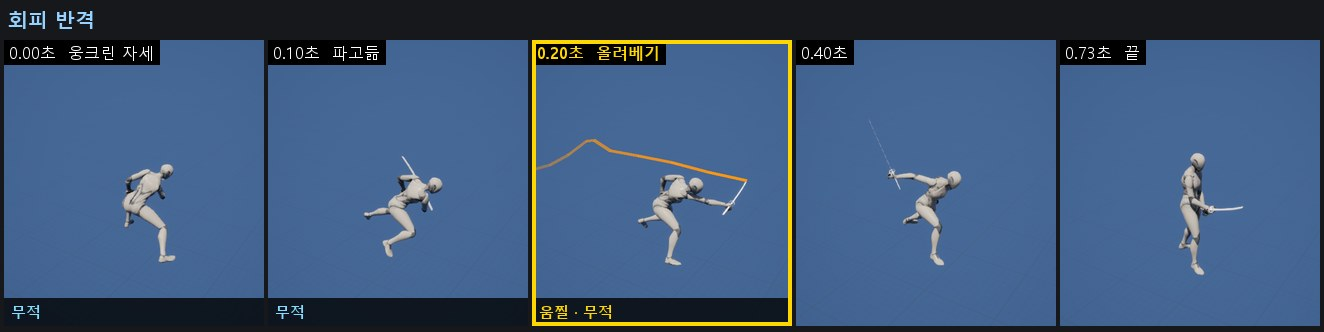
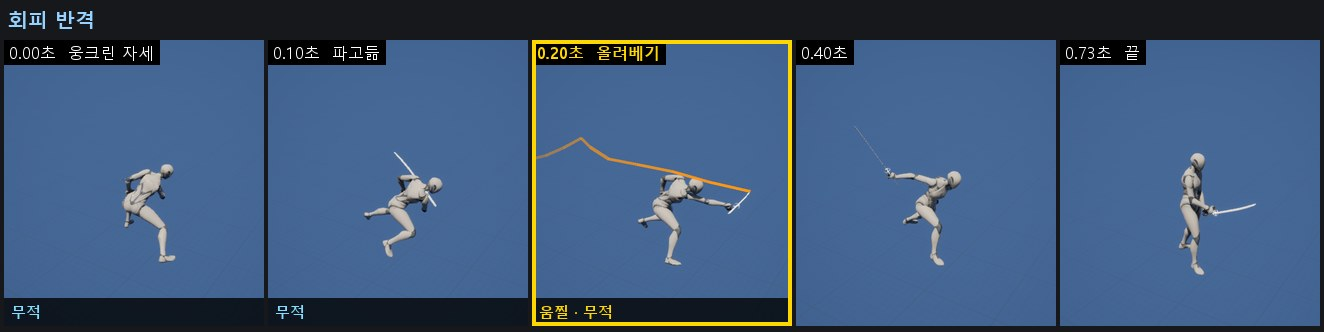
폴리싱: 카타나 손잡이가 양손 주먹 안을 지나게 KatanaSocket 수정 (Samurai 애니메이션 조사 '무기'·'측정 방법', 플레이어 모션 그림)
- 기획서 (Samurai 애니메이션 조사 '무기'·'측정 방법')
  - 소켓 값과 계산 기준을 새 값으로. 측정 방법의 칼날 방향이 게임 카타나와 다른 정도를 적음.
  - 플레이어 모션 그림 9장을 새 소켓으로 다시 그림.
- 구현
  - 손가락마다 세 마디를 지나는 원(반지름 약 3cm)의 중심으로 주먹 중심을 구해 보니, 예전 소켓은 손잡이 축이
    손목(weapon_r) 쪽을 지나 주먹 중심에서 약 8cm 벗어나 있었습니다.
  - SK_Mannequin KatanaSocket (hand_r 기준): 위치 (-18.0, -35.1, 37.2) → (-26.83, -26.36, 40.79),
    회전 (Pitch 35.4, Yaw 17.2, Roll 57.2) → (Pitch 31.84, Yaw 19.46, Roll 67.18).
    손잡이 축이 오른손 주먹(손잡이 +53cm)과 중단 자세 왼손 주먹(+70cm)을 지나고, 날 방향은 가장 작게(약 9.6°) 돌림.
  - 모션 그림 도구의 카타나도 hand_r + 같은 소켓 값으로 그림(weapon_r 수집 제거).

PIE (보스 대기): 평타 연타 1~5타 → 1~4타 모두 적중, 적중 시점은 예전과 같음(±0.01초).

diff --git a/Scripts/MotionImages/common.py b/Scripts/MotionImages/common.py
@@ -120,24 +120,20 @@ def quat_to_rotator(q):
 
 # ------------------------------------------------------------------ characters and weapons
 class Katana:
-    """The player's katana on hand_r, placed from the weapon_r bone (Samurai 애니메이션 조사 '무기')."""
-    bone = "weapon_r"
+    """플레이어 카타나. 게임과 같이 hand_r의 소켓 KatanaSocket에 붙입니다(Samurai 애니메이션 조사 '무기')."""
+    bone = "hand_r"
     mesh = "/Game/Fab/ARPG_Pack/ARPG_Samurai/Demo/Weapon/Mesh/katana.katana"
     component = "/Script/Engine.StaticMeshComponent"
     mesh_property = "staticMesh"
-    BLADE = norm((-0.01, -0.541, 0.841))   # blade direction in weapon_r space, away from the left hand
-    EDGE = (-0.8645472843746747, -0.4179083592043054, -0.2791155151440153)   # edge side in weapon_r space (down in Idle1)
-    GRIP_Y = 55.0                           # mesh Y held by the right hand, just past the tsuba
-    TIP = (2.7, -43.2, 0.0)                 # mesh point of the tip
+    SOCKET_LOC = (-26.83, -26.36, 40.79)   # SK_Mannequin KatanaSocket 위치(hand_r 기준)
+    SOCKET_Q = (-0.48580840364876876, -0.315088429192808, -0.014223640429174067, 0.8151730888504507)   # 회전(Pitch 31.84, Yaw 19.46, Roll 67.18)
+    TIP = (2.7, -43.2, 0.0)                 # 메시의 칼끝
 
     @classmethod
-    def transform(cls, wr):
-        """Mesh pivot (component space) and rotation for a weapon_r transform."""
-        b = norm(qrot(tuple(wr[3:7]), cls.BLADE))
-        e = qrot(tuple(wr[3:7]), cls.EDGE)
-        e = norm(sub(e, scale(b, dot(e, b))))
-        y_axis, x_axis = scale(b, -1), scale(e, -1)   # mesh +Y points to the pommel, mesh -X is the edge
-        return sub(tuple(wr[0:3]), scale(y_axis, cls.GRIP_Y)), mat_to_quat(x_axis, y_axis, cross(x_axis, y_axis))
+    def transform(cls, hr):
+        """hand_r 변환에서 메시 피벗(컴포넌트 공간)과 회전을 구합니다."""
+        q = tuple(hr[3:7])
+        return add(tuple(hr[0:3]), qrot(q, cls.SOCKET_LOC)), qmul(q, cls.SOCKET_Q)
 
     @classmethod
     def tip(cls, wr):

diff --git a/Scripts/MotionImages/ue_probe.py b/Scripts/MotionImages/ue_probe.py
@@ -9,7 +9,7 @@ import os
 
 import unreal
 
-BONES = ["root", "pelvis", "hand_r", "weapon_r"]
+BONES = ["root", "pelvis", "hand_r"]
 
 
 def main():

diff --git a/Docs/Art/Samurai 애니메이션 조사.md b/Docs/Art/Samurai 애니메이션 조사.md
@@ -18,18 +18,19 @@
 | `scabbard` | `Demo/Weapon/Mesh` | 메시 Y축 약 94cm |
 
 - 카타나는 오른손 `hand_r`에 만든 소켓에 붙입니다. 팩에는 소켓 정보가 없고, 팩이 무기 기준으로 쓰는 `weapon_r` 본은 스켈레톤 `SK_Mannequin`에만 있으며 Quinn·Manny 메시에는 없습니다. `weapon_r`은 모든 프레임에서 `hand_r`에 고정되어 있어(약 1.8cm 떨어짐), 같은 위치를 `hand_r` 소켓으로 만들 수 있습니다.
-- `hand_r` 기준 소켓 값은 위치 (−18.0, −35.1, 37.2), 회전 (Pitch 35.4, Yaw 17.2, Roll 57.2)입니다. 카타나 메시를 이 소켓에 추가 오프셋 없이 붙입니다. 플레이어 사양의 모션 그림도 이 위치로 그렸습니다.
+- `hand_r` 기준 소켓 값은 위치 (−26.83, −26.36, 40.79), 회전 (Pitch 31.84, Yaw 19.46, Roll 67.18)입니다. 카타나 메시를 이 소켓에 추가 오프셋 없이 붙입니다. 모션 그림 도구도 같은 값으로 그립니다.
 - 소켓 값은 아래 기준으로 계산했습니다.
-  - 대부분의 자세에서 왼손(`weapon_l`)이 17cm 떨어져 함께 잡는 양손 파지입니다. 양손 위치로 추정한 칼날 방향(왼손에서 멀어지는 쪽)은 `weapon_r` 로컬 (−0.01, −0.54, 0.84)입니다.
-  - 메시의 칼끝은 −Y 쪽이므로, 메시의 −Y를 이 칼날 방향에 맞춥니다. 메시 원점은 칼날 가운데에 있으므로, 손잡이의 Y 약 +55cm 지점(코등이 바로 아래)이 `weapon_r`에 오게 합니다. 그러면 왼손은 손잡이의 약 +72cm 지점에 옵니다.
-  - 칼날(날 쪽)은 메시 −X 쪽입니다. 중단 자세(`Idle1`)에서 날이 아래를 향하도록 맞췄습니다.
-- 미세한 각도는 에디터에서 보고 다듬습니다.
+  - 대부분의 자세에서 양손으로 잡습니다. 손가락(검지~새끼)마다 세 마디를 지나는 원을 구하면 반지름 약 3cm로 손잡이를 감싼 모양이 나오고, 그 원 중심들의 평균을 주먹 중심으로 봅니다. 오른손은 모든 프레임에서 `hand_r`에 대해 같은 자세입니다.
+  - 손잡이 축이 오른손 주먹 중심과 중단 자세(`Idle1`)의 왼손 주먹 중심을 지나게 했습니다. 오른손은 손잡이 +53cm(코등이 바로 아래), 왼손은 +70cm에 옵니다.
+  - 칼날(날 쪽)은 메시 −X 쪽입니다. 중단 자세에서 날이 아래를 향하는 방향을 유지했습니다.
+  - 처음 값(위치 (−18.0, −35.1, 37.2), 회전 (Pitch 35.4, Yaw 17.2, Roll 57.2))은 손잡이를 손목(`weapon_r`) 쪽에 맞춰, 손잡이 축이 주먹 중심에서 약 8cm 벗어났습니다.
+- 공격 중에는 모션에 따라 왼손이 손잡이에서 떨어집니다. 팩의 `weapon_l`도 같이 떨어지므로 모션 자체의 특성입니다.
 
 ## 측정 방법
 
 - 이동 거리: 시작과 끝의 루트 본 위치 차이입니다. 전진은 캐릭터 정면 방향입니다.
 - 베는 시점: 칼날 위 한 점(`weapon_r`에서 칼날 방향으로 82cm)의 속도가 그 모션 최고 속도의 45% 이상인 구간입니다. 추정값이므로 실제 판정 구간은 몽타주에서 보고 정합니다.
-- 닿는 거리: 베는 시점 동안 칼날(`weapon_r`에서 칼날 방향으로 8 ~ 98cm)이 보스 캡슐(엔진 기본 반지름 34cm)에 닿는, 가장 먼 캡슐 중심 사이 수평 거리입니다. '제자리'는 캐릭터가 움직이지 않을 때의 값이고, '이동 포함'은 모션을 시작한 자리에서 잰 값이라 베는 시점까지의 전진이 들어 있습니다. 칼 위치는 '무기'의 추정값입니다.
+- 닿는 거리: 베는 시점 동안 칼날(`weapon_r`에서 칼날 방향으로 8 ~ 98cm)이 보스 캡슐(엔진 기본 반지름 34cm)에 닿는, 가장 먼 캡슐 중심 사이 수평 거리입니다. '제자리'는 캐릭터가 움직이지 않을 때의 값이고, '이동 포함'은 모션을 시작한 자리에서 잰 값이라 베는 시점까지의 전진이 들어 있습니다. 칼날 방향은 양손(`weapon_r`·`weapon_l`) 위치로 추정한 `weapon_r` 로컬 (−0.01, −0.54, 0.84)이라, 게임의 카타나('무기')와 칼끝에서 약 19cm, 칼날 가운데에서 약 13cm 다릅니다.
 - 메시의 피직스 바디(`PA_Mannequin`) 기준으로는 몸통 바디의 반지름이 11 ~ 15cm라, 정면에서 위 닿는 거리보다 약 0.2m 짧게 닿습니다. 무엇을 공격 판정 대상으로 쓰는지는 [마일스톤1 구현 계획](<../Program/마일스톤1 구현 계획.md>)의 '전투 규칙'을 따릅니다.
 - 연결: 다음 모션의 첫 자세와 가장 가까운 앞 모션의 프레임입니다. 주요 본의 평균 거리가 1cm 미만이면 '정확'으로 적습니다.
 
